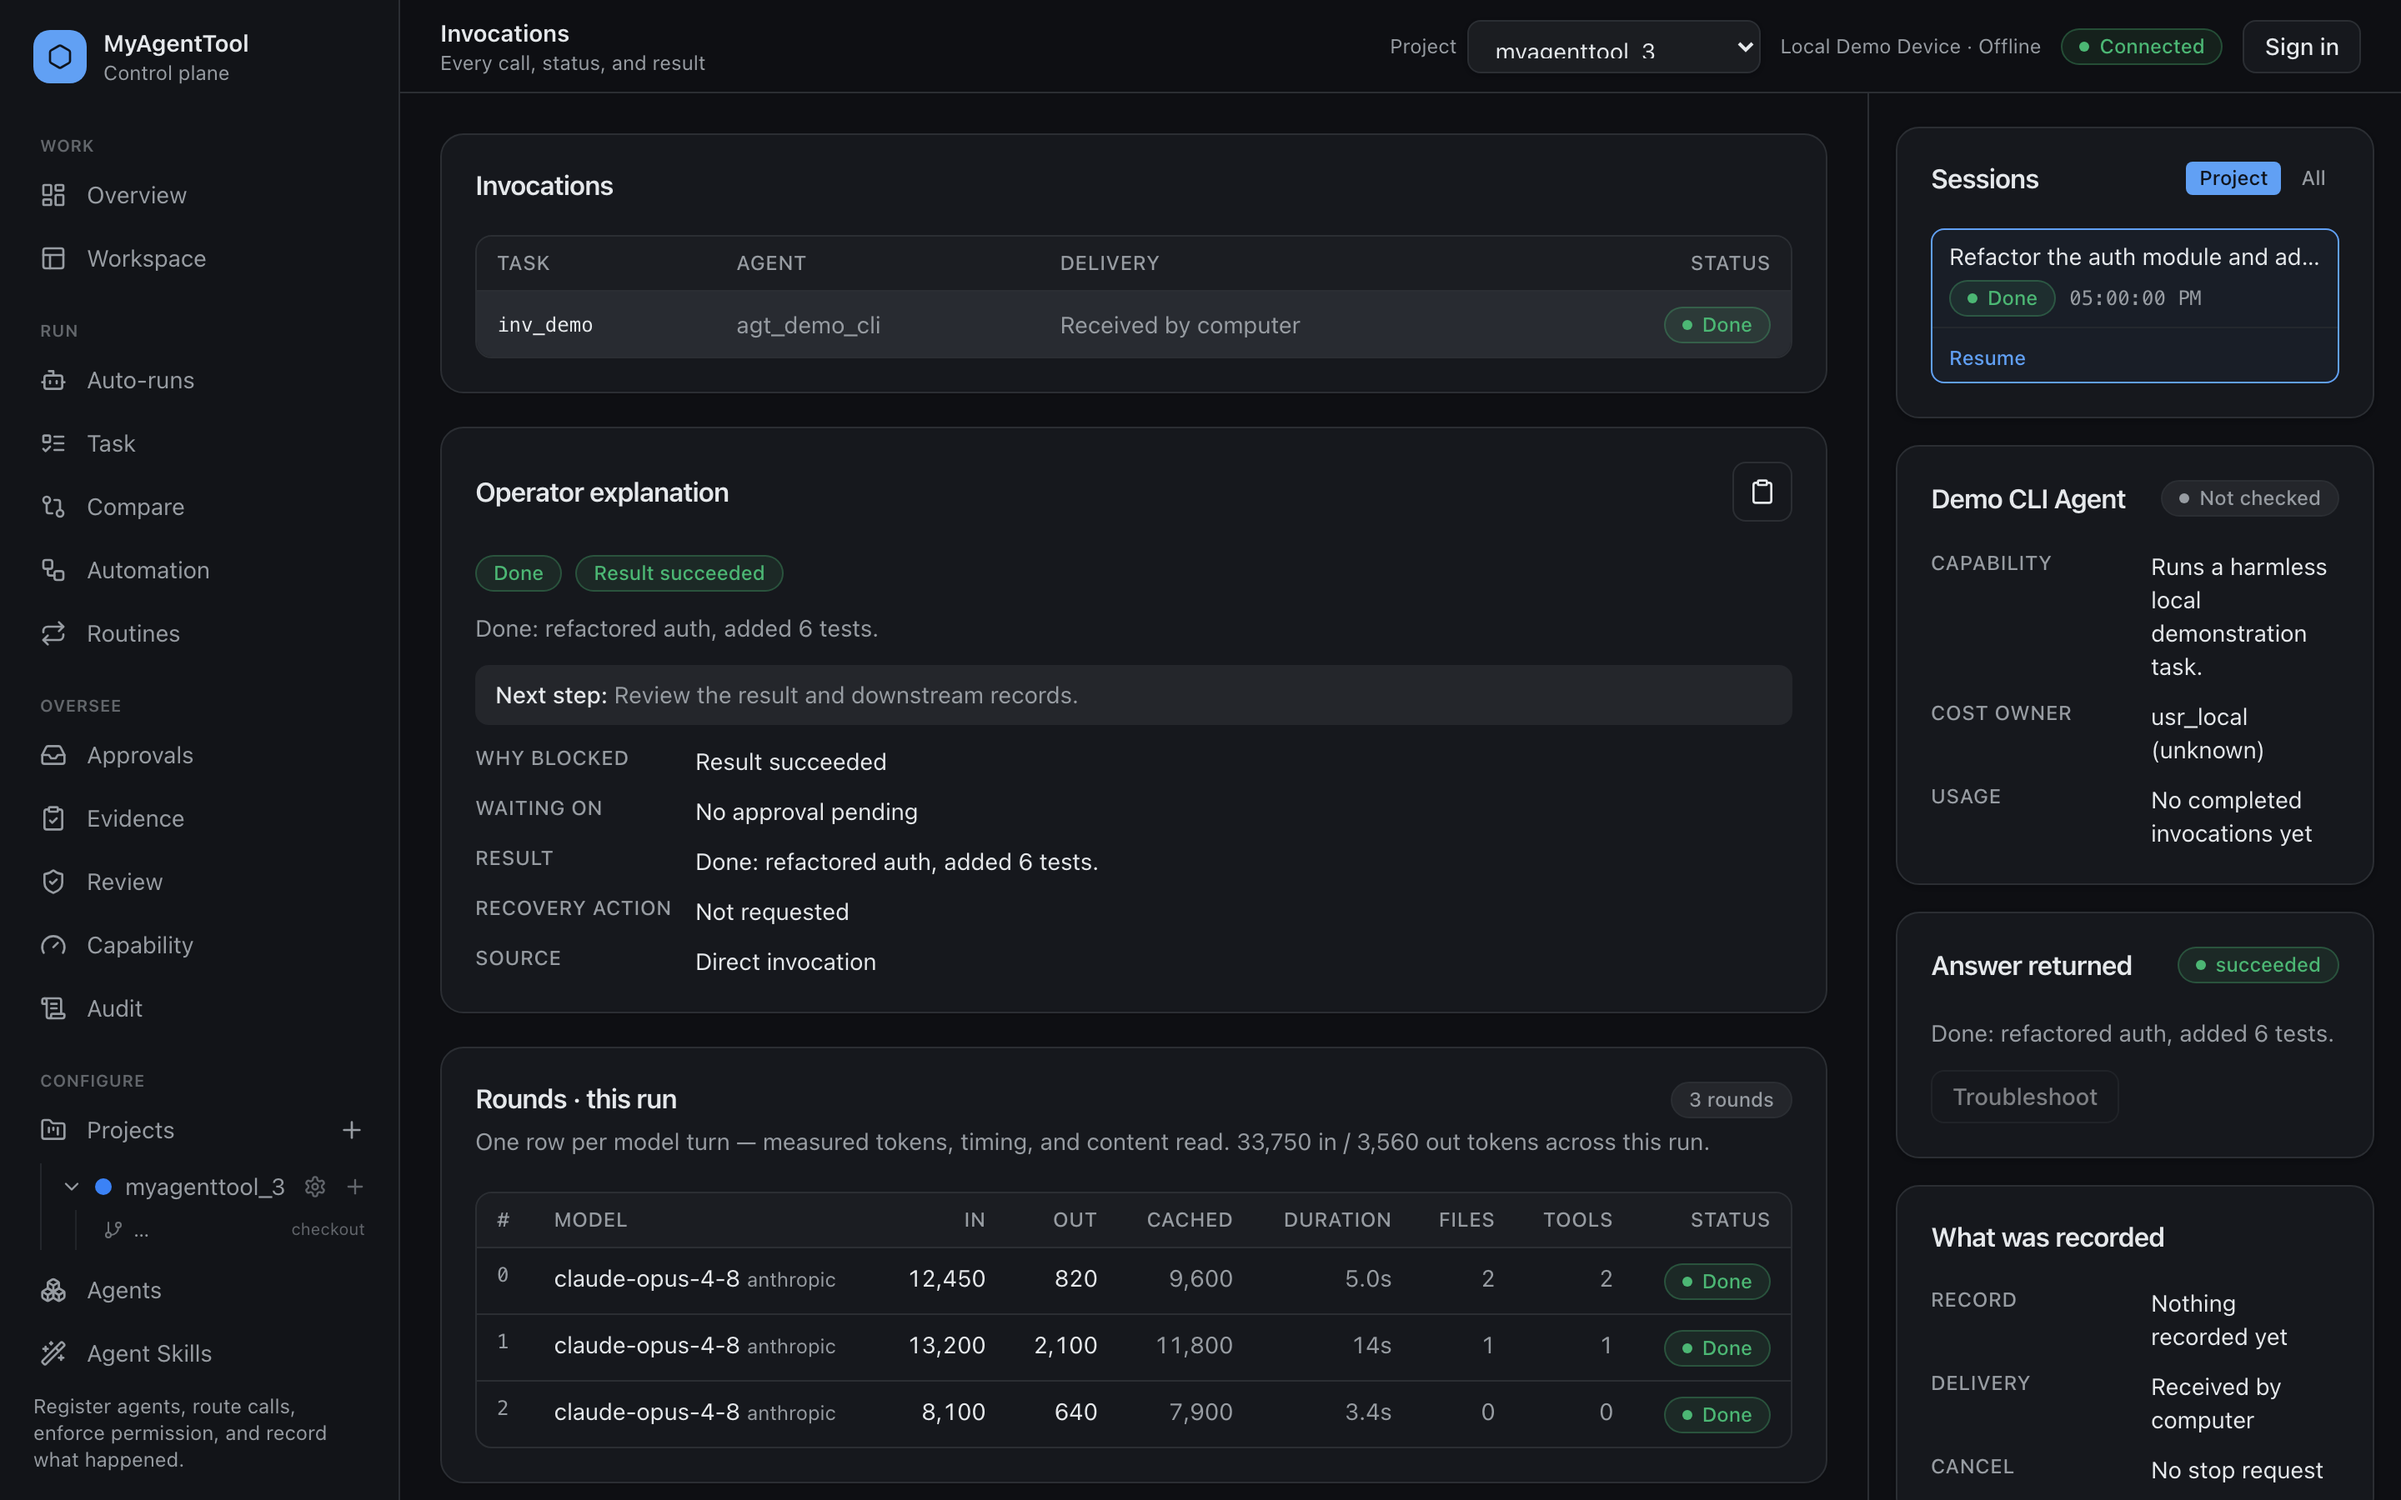
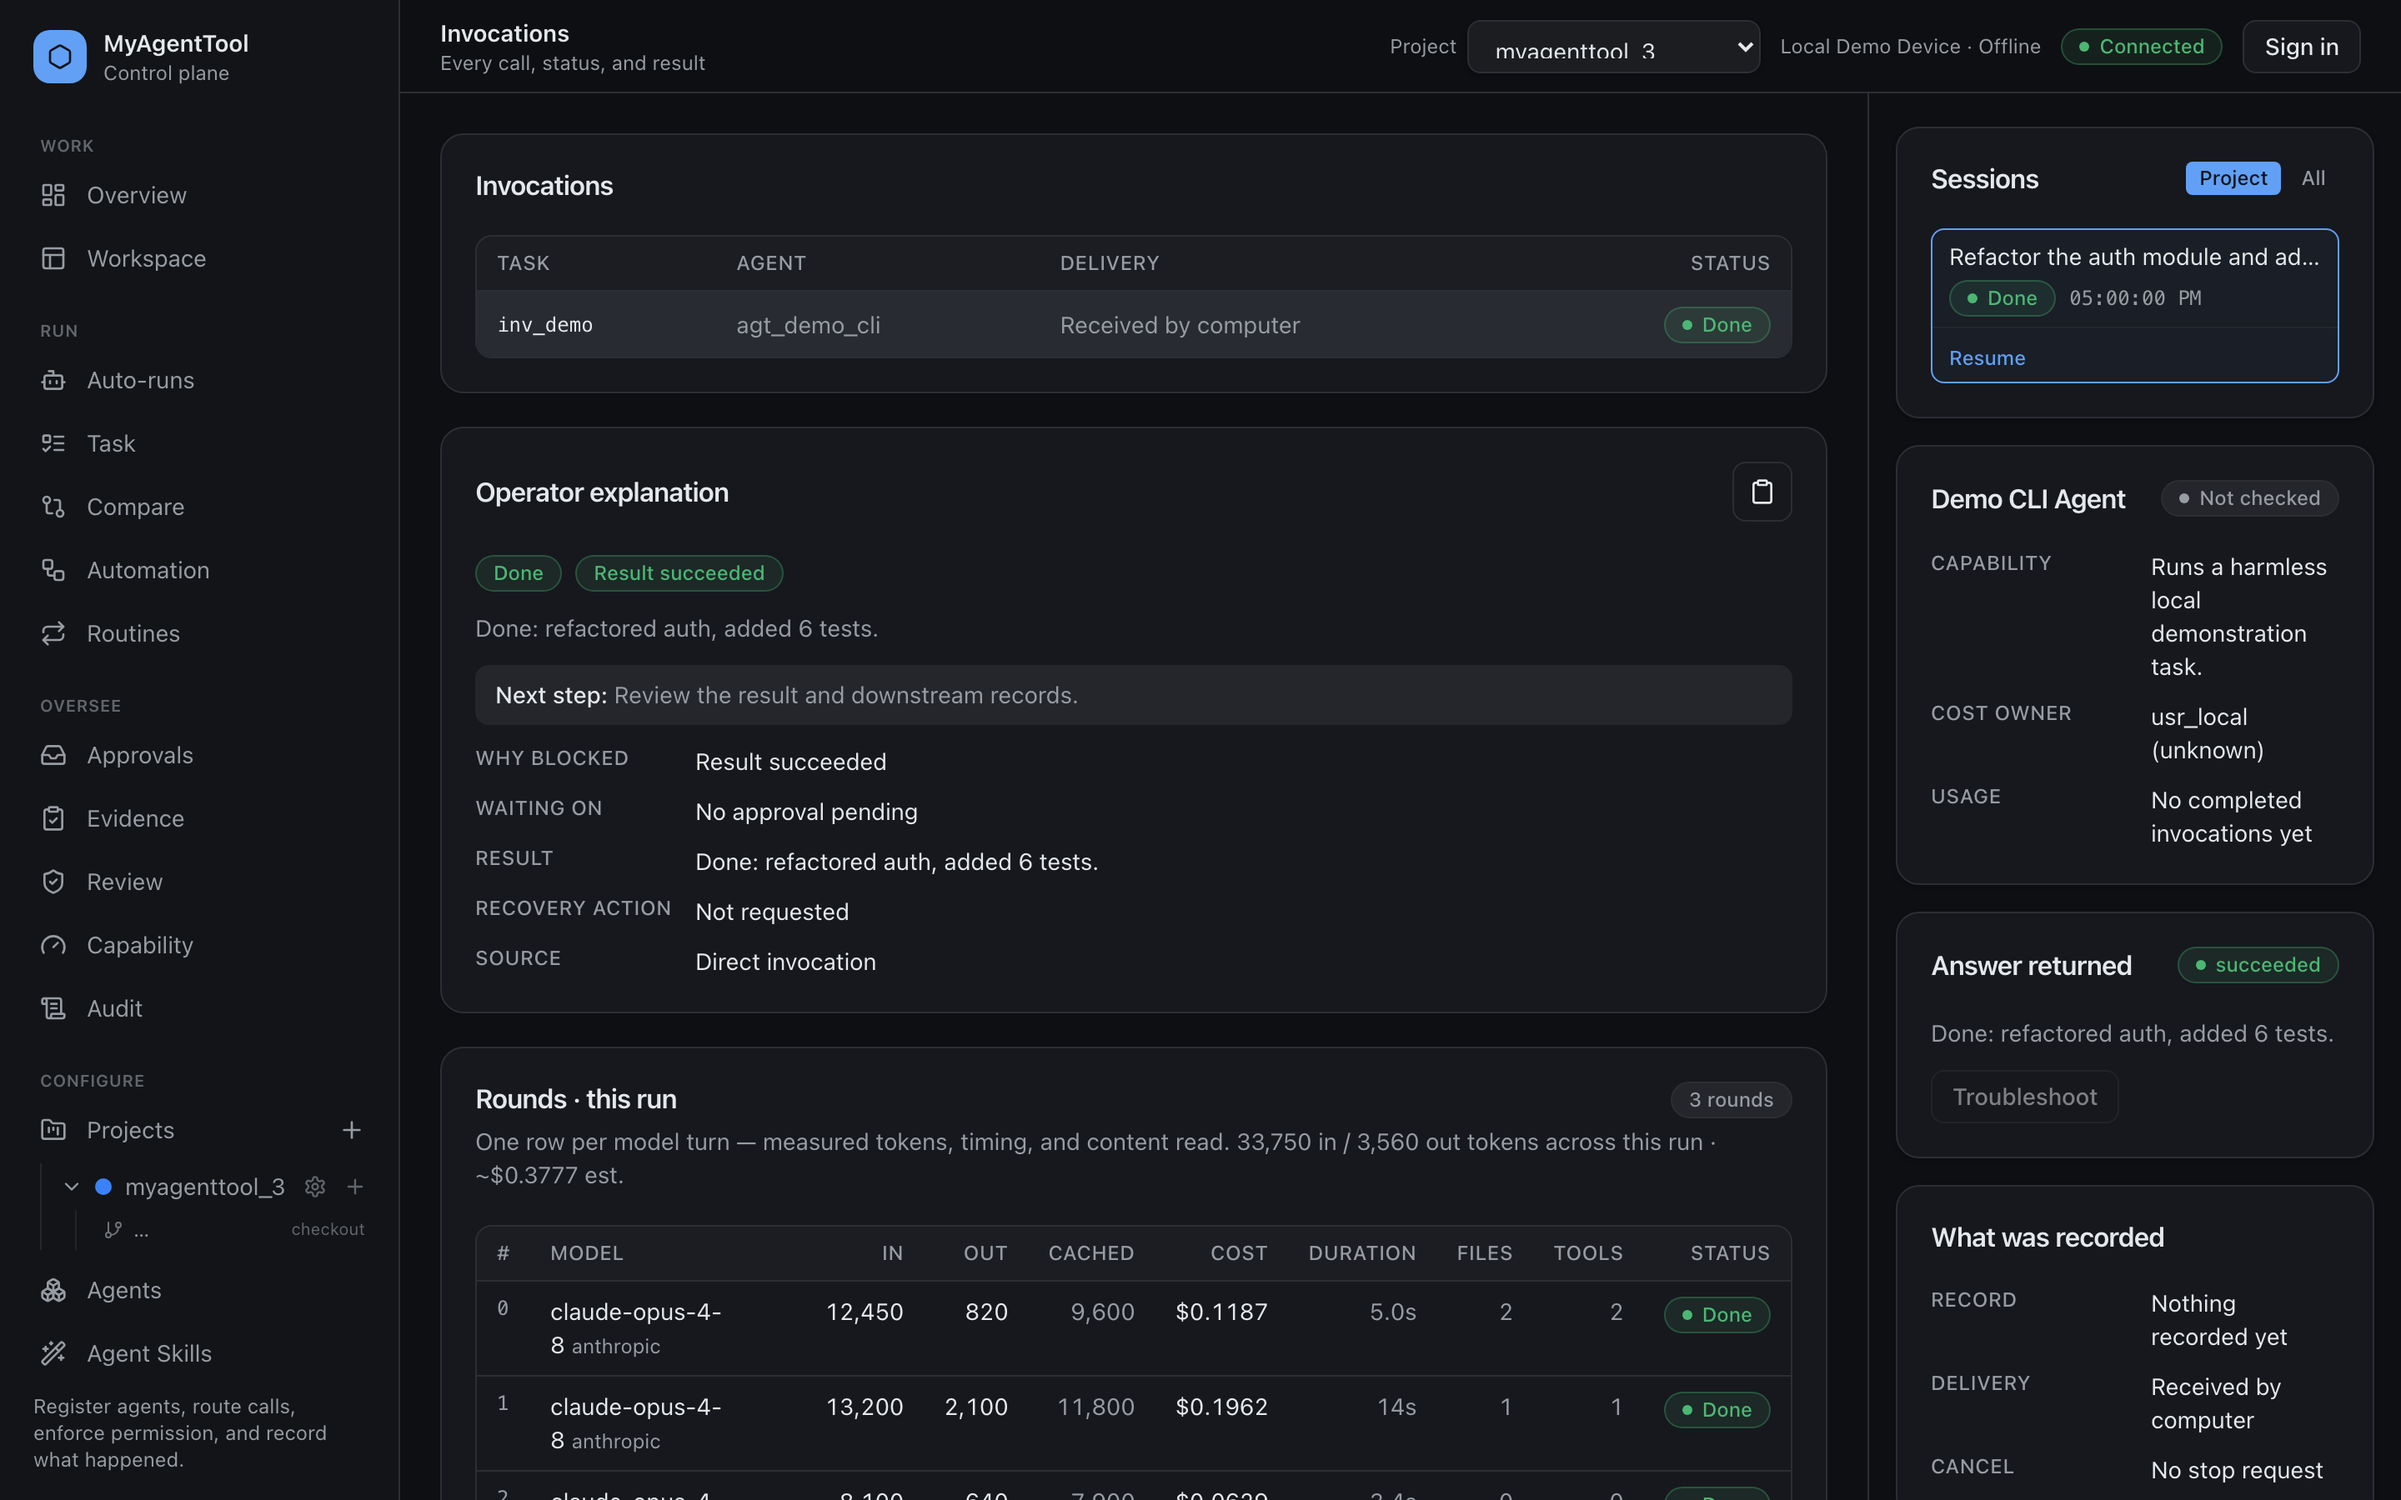
feat(web): show per-round cost in the console (#854)
Surface the pricing from #852/#853 in the invocation detail: the "Rounds · this
run" card gains a Cost column (per turn) and a run-level "~\$X est." total. An
unpriced round renders "—", never "\$0"; the run total is omitted when nothing is
priced.

- InvocationRound (web mirror) gains estimatedCostUsd (deferred from #853).
- Reuses formatUsd (4 decimals under \$1, for sub-cent turns) and the existing
  Rounds table primitives.
- round-telemetry-shot.mjs injects estimatedCostUsd so the committed visual-QA
  screenshots show the Cost column; regenerated rounds-1440w.png.

Tests: cost column + run-total render, and an em-dash + no run-total for an
unpriced round. 139 web tests pass; web typecheck + build clean; all 12 projects
typecheck.

diff --git a/apps/web/src/features/invocations/invocations-view.tsx b/apps/web/src/features/invocations/invocations-view.tsx
@@ -39,6 +39,7 @@ import {
 import { useUiStore } from "@/store/ui-store";
 import { cn } from "@/lib/cn";
 import { formatDuration, formatTokens } from "@/lib/format";
+import { formatUsd } from "@/lib/money";
 import { readableDelivery, readableStatus, statusTone } from "@/lib/readable-labels";
 import type {
   ApplicationRecoveryActionRequest,
@@ -75,6 +76,8 @@ export function InvocationsView() {
     : [];
   const roundInputTokens = rounds.reduce((sum, round) => sum + (round.inputTokens ?? 0), 0);
   const roundOutputTokens = rounds.reduce((sum, round) => sum + (round.outputTokens ?? 0), 0);
+  const roundCostUsd = rounds.reduce((sum, round) => sum + (round.estimatedCostUsd ?? 0), 0);
+  const anyRoundPriced = rounds.some((round) => round.estimatedCostUsd != null);
 
   function viewInvocation(invocationId: string) {
     setSelectedInvocationId(invocationId);
@@ -209,7 +212,8 @@ export function InvocationsView() {
             </div>
             <p className="text-sm text-muted-foreground">
               One row per model turn — measured tokens, timing, and content read.{" "}
-              {formatTokens(roundInputTokens)} in / {formatTokens(roundOutputTokens)} out tokens across this run.
+              {formatTokens(roundInputTokens)} in / {formatTokens(roundOutputTokens)} out tokens across this run
+              {anyRoundPriced ? ` · ~${formatUsd(roundCostUsd)} est.` : "."}
             </p>
           </CardHeader>
           <CardContent>
@@ -222,6 +226,7 @@ export function InvocationsView() {
                     <th className="px-3 py-2 text-right font-medium">In</th>
                     <th className="px-3 py-2 text-right font-medium">Out</th>
                     <th className="px-3 py-2 text-right font-medium">Cached</th>
+                    <th className="px-3 py-2 text-right font-medium">Cost</th>
                     <th className="px-3 py-2 text-right font-medium">Duration</th>
                     <th className="px-3 py-2 text-right font-medium">Files</th>
                     <th className="px-3 py-2 text-right font-medium">Tools</th>
@@ -243,6 +248,9 @@ export function InvocationsView() {
                         <td className="px-3 py-2 text-right tabular-nums">{formatTokens(round.inputTokens)}</td>
                         <td className="px-3 py-2 text-right tabular-nums">{formatTokens(round.outputTokens)}</td>
                         <td className="px-3 py-2 text-right tabular-nums text-muted-foreground">{formatTokens(round.cachedTokens)}</td>
+                        <td className="px-3 py-2 text-right tabular-nums">
+                          {round.estimatedCostUsd != null ? formatUsd(round.estimatedCostUsd) : "—"}
+                        </td>
                         <td className="px-3 py-2 text-right tabular-nums text-muted-foreground">{formatDuration(round.durationMs)}</td>
                         <td
                           className="px-3 py-2 text-right tabular-nums text-muted-foreground"

diff --git a/apps/web/src/features/invocations/invocations-view.test.tsx b/apps/web/src/features/invocations/invocations-view.test.tsx
@@ -305,11 +305,13 @@ describe("InvocationsView operator explanation", () => {
           id: "rnd_1", invocationId: "inv_report", roundIndex: 0, provider: "anthropic",
           model: "claude-opus-4-8", status: "succeeded", inputTokens: 100, outputTokens: 50,
           cachedTokens: 25, reasoningTokens: 0, durationMs: 5000, filesRead: ["/wt/a.mjs"], toolCallIds: ["tiv_1"],
+          estimatedCostUsd: 0.1875,
         },
         {
           id: "rnd_2", invocationId: "inv_report", roundIndex: 1, provider: "anthropic",
           model: "claude-opus-4-8", status: "succeeded", inputTokens: 20, outputTokens: 8,
           cachedTokens: 0, reasoningTokens: 0, durationMs: 1200, filesRead: [], toolCallIds: [],
+          estimatedCostUsd: 0.02,
         },
         // Another run's round — must NOT leak into this run's card.
         { id: "rnd_other", invocationId: "inv_other", roundIndex: 0, model: "gpt-other-model", status: "succeeded", inputTokens: 1, outputTokens: 1 },
@@ -322,6 +324,23 @@ describe("InvocationsView operator explanation", () => {
     expect(screen.getAllByText("claude-opus-4-8").length).toBe(2);
     expect(screen.getByText("100")).toBeTruthy();
     expect(screen.queryByText("gpt-other-model")).toBeNull();
+    // Per-round cost column + run-total estimate.
+    expect(screen.getByText("$0.1875")).toBeTruthy();
+    expect(screen.getByText(/~\$0\.2075 est\./)).toBeTruthy();
+  });
+
+  it("renders an em dash for a round with no priced cost", async () => {
+    apiMock.fetchState.mockResolvedValue({
+      ...actionExplanationState(),
+      invocationRounds: [
+        { id: "rnd_np", invocationId: "inv_report", roundIndex: 0, model: "mystery-model", status: "succeeded", inputTokens: 10, outputTokens: 5, estimatedCostUsd: null },
+      ],
+    });
+    useUiStore.setState({ section: "invocations", selectedInvocationId: "inv_report" });
+    renderWithClient(createElement(InvocationsView));
+    await screen.findByText("Rounds · this run");
+    // No run-total estimate when nothing is priced; the cost cell shows an em dash.
+    expect(screen.queryByText(/est\./)).toBeNull();
   });
 
   it("hides the rounds card for runs with no round telemetry", async () => {

diff --git a/apps/web/src/lib/console-state.ts b/apps/web/src/lib/console-state.ts
@@ -445,6 +445,7 @@ export interface InvocationRound {
   toolCallIds?: string[];
   responseDigest?: string | null;
   errorCode?: string | null;
+  estimatedCostUsd?: number | null;
 }
 
 export interface LedgerEntry {

diff --git a/docs/engineering/visual-qa/round-telemetry/README.md b/docs/engineering/visual-qa/round-telemetry/README.md
@@ -9,9 +9,10 @@ invocation detail view in #810, captured with Playwright + Chromium.
 | Narrow (390×900) | [rounds-390w.png](rounds-390w.png) |
 
 The wide capture shows the card as shipped: a `3 rounds` badge, the run-level
-token summary (`33,750 in / 3,560 out tokens`), and one table row per model turn
-— model/provider, in/out/cached tokens (thousands-separated), duration
-(`5.0s` / `14s` / `3.4s`), files read, tool count, and a status badge.
+token + cost summary (`33,750 in / 3,560 out tokens · ~$0.3777 est.`), and one
+table row per model turn — model/provider, in/out/cached tokens
+(thousands-separated), **cost** (`$0.1187` …), duration (`5.0s` / `14s` / `3.4s`),
+files read, tool count, and a status badge.
 
 ## How to regenerate
 
